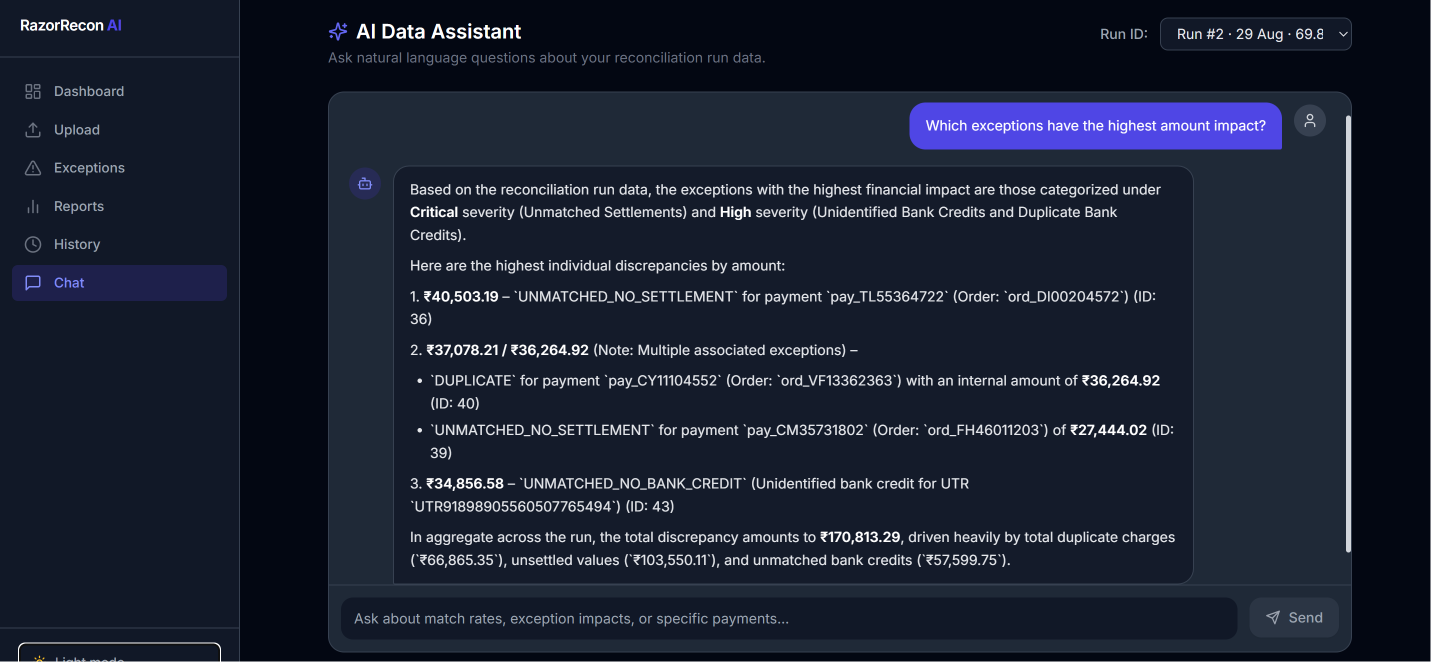
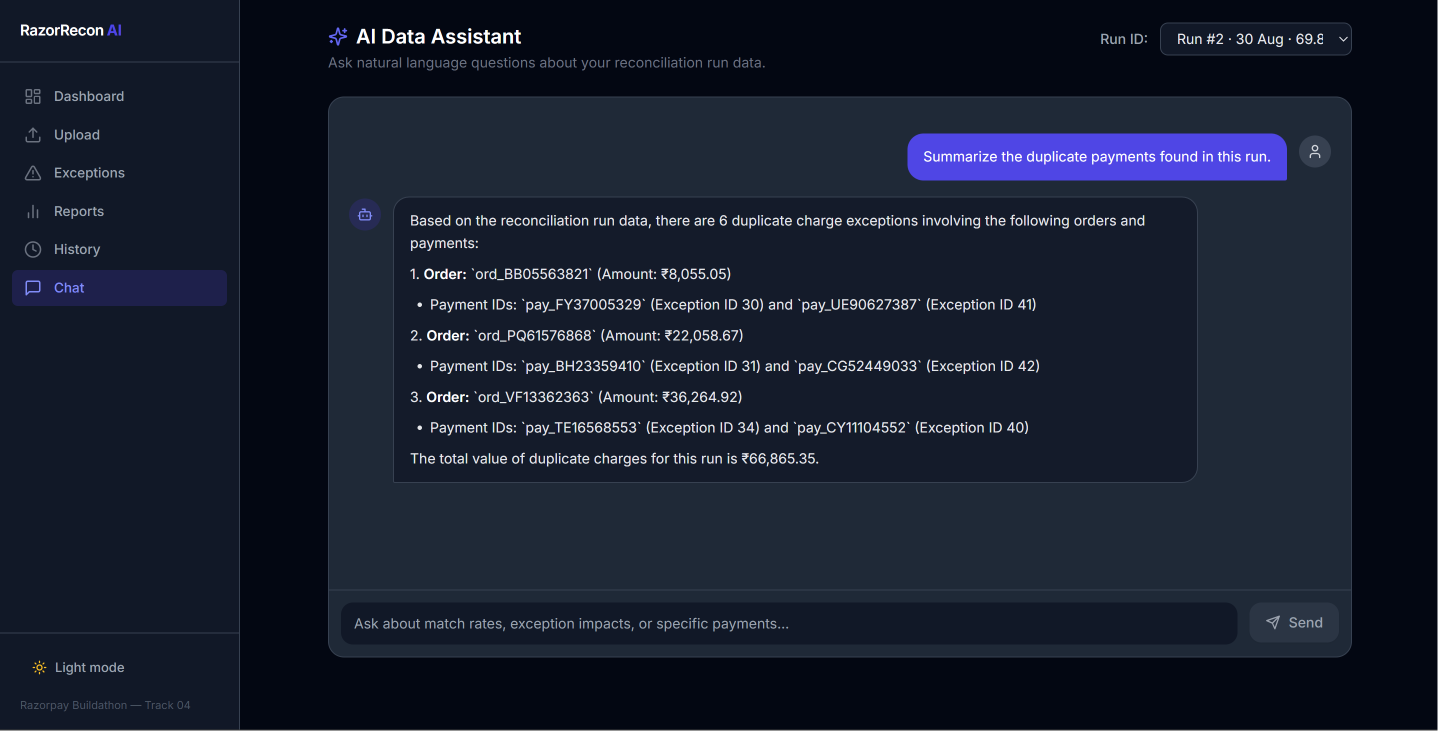
Update screenshots grid in README and format local timestamps in UI

diff --git a/frontend/src/pages/History.tsx b/frontend/src/pages/History.tsx
@@ -55,8 +55,27 @@ export default function History() {
 
   const formatDate = (ds: string | null) => {
     if (!ds) return "—";
-    return new Date(ds).toLocaleString("en-IN", {
-      dateStyle: "medium", timeStyle: "short"
+    const dateStr = ds.endsWith("Z") || ds.includes("+") ? ds : `${ds}Z`;
+    const date = new Date(dateStr);
+    if (isNaN(date.getTime())) {
+      return new Date(ds).toLocaleString("en-IN", {
+        day: "2-digit",
+        month: "short",
+        year: "numeric",
+        hour: "numeric",
+        minute: "2-digit",
+        second: "2-digit",
+        hour12: true,
+      });
+    }
+    return date.toLocaleString("en-IN", {
+      day: "2-digit",
+      month: "short",
+      year: "numeric",
+      hour: "numeric",
+      minute: "2-digit",
+      second: "2-digit",
+      hour12: true,
     });
   };
 

diff --git a/frontend/src/pages/Dashboard.tsx b/frontend/src/pages/Dashboard.tsx
@@ -340,7 +340,15 @@ export default function Dashboard() {
             )}
             {data.started_at && (
               <span className="text-xs text-gray-400 dark:text-gray-500">
-                {new Date(data.started_at).toLocaleString("en-IN")}
+                {new Date(data.started_at.endsWith("Z") || data.started_at.includes("+") ? data.started_at : `${data.started_at}Z`).toLocaleString("en-IN", {
+                  day: "2-digit",
+                  month: "short",
+                  year: "numeric",
+                  hour: "numeric",
+                  minute: "2-digit",
+                  second: "2-digit",
+                  hour12: true,
+                })}
               </span>
             )}
           </div>

diff --git a/README.md b/README.md
@@ -12,9 +12,9 @@ Built for the Razorpay Buildathon — Track 04: AI Finance Controller.
 | :---: | :---: |
 | ![Dashboard](dashboard.png) | ![Exceptions](exception.png) |
 
-| Settlement Q&A Assistant |
-| :---: |
-| ![Chat](chat.png) |
+| Financial Summary & Reports | Settlement Q&A Assistant |
+| :---: | :---: |
+| ![Summary](summary.png) | ![Chat](chat.png) |
 
 ---
 
